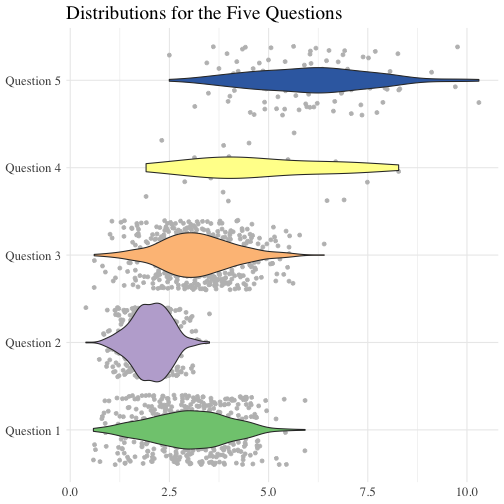
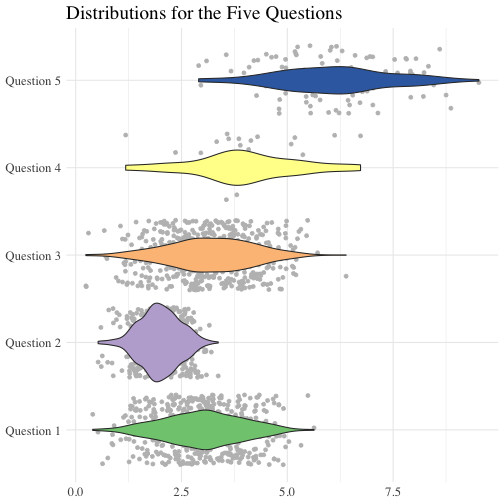
update slides

diff --git a/slides/presentations-week-5.html b/slides/presentations-week-5.html
@@ -82,9 +82,9 @@ state_data_final &lt;- state_data_merge %&gt;%
 
 * From R for Data Science: https://r4ds.had.co.nz/tidy-data.html
 * tidy data:
-* every variable has its own column
-* every observation has its own row
-* every value has its own cell
+  * every variable has its own column
+  * every observation has its own row
+  * every value has its own cell
 
 * tidy data makes it easier to use similar tools (even with very different datasets and types of data)
 * tidy data works well with R
@@ -192,9 +192,9 @@ class: inverse, center, middle
 
 **Outline**
 
-A. Why visualize data?
-B. How can we visualize data in R?
-C. And, how can we make our visualizations aesthetically pleasing?
+A. Why visualize data?  
+B. How can we visualize data in R?  
+C. And, how can we make our visualizations aesthetically pleasing?  
 
 ---
 
@@ -283,20 +283,20 @@ data
 ```
 
 ```
-## # A tibble: 1,617 x 2
+## # A tibble: 1,620 x 2
 ##    name       value
 ##    &lt;chr&gt;      &lt;dbl&gt;
-##  1 Question 1  2.34
-##  2 Question 1  4.50
-##  3 Question 1  2.87
-##  4 Question 1  4.32
-##  5 Question 1  1.94
-##  6 Question 1  3.72
-##  7 Question 1  2.62
-##  8 Question 1  3.62
-##  9 Question 1  1.93
-## 10 Question 1  2.76
-## # … with 1,607 more rows
+##  1 Question 1  3.02
+##  2 Question 1  2.73
+##  3 Question 1  2.99
+##  4 Question 1  1.74
+##  5 Question 1  3.41
+##  6 Question 1  4.30
+##  7 Question 1  2.29
+##  8 Question 1  4.26
+##  9 Question 1  2.12
+## 10 Question 1  4.36
+## # … with 1,610 more rows
 ```
 
 
@@ -491,10 +491,16 @@ https://www.denverpost.com/2019/05/27/cu-colorado-springs-facial-recognition-res
 
 # Course Logistics
 
+**This week**
 * Exam 1: [Recap](https://utk.instructure.com/courses/121991/quizzes/183019/statistics)
 * Homework 5: Due by Tuesday, 1/23
-* Reading: Considerations for using social media data in learning design and technology research ([Greenhalgh et al., 2020](http://www.researchmerge.com/uploads/7/5/3/5/75356681/chapter_5_research_methods_in_learning_design_and_technology_pre-print.pdf))
-* Start to think about what you may want to do for a final project; something that
+* Readings
+  * 1: Considerations for using social media data in learning design and technology research ([Greenhalgh et al., 2020](http://www.researchmerge.com/uploads/7/5/3/5/75356681/chapter_5_research_methods_in_learning_design_and_technology_pre-print.pdf))
+  * 2: Data visualization ([Wickham &amp; Grolemund, 2018](https://r4ds.had.co.nz/data-visualisation.html))
+  
+**Coming up**
+* [Data ethics](https://making-data-science-count.github.io/s21-intro-to-data-sci-methods-in-ed/assignment-data-ethics.html)
+* *Just begin* to think and to ask questions about what you may want to do for [a final project](https://making-data-science-count.github.io/s21-intro-to-data-sci-methods-in-ed/assignments.html); something that
 will advance your research and allow you to exhibit and extend what you do in class
 
 ---
